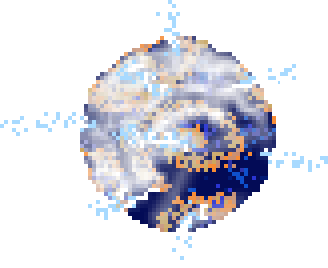
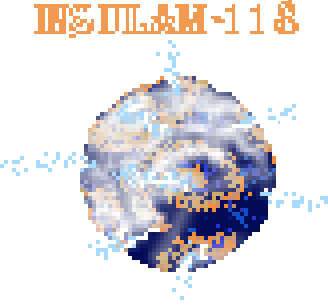
added StarGates, StarMap. Navigation system
added a navigation system for the player to ftl jump to different planets, this system does not yet do anything other then display an animation. But it already prints out the planet you clcked on with the real name for readability

diff --git a/Code-Defender/src/main/java/Controller/StarMap.java b/Code-Defender/src/main/java/Controller/StarMap.java
@@ -1,12 +1,15 @@
 package Controller;
 
+import javafx.animation.PauseTransition;
 import javafx.scene.image.Image;
 import javafx.scene.image.ImageView;
 import javafx.scene.layout.Pane;
 
 import java.util.ArrayList;
+import java.util.HashMap;
 import java.util.List;
-import java.util.Random;
+import Module.MainModule;
+import javafx.util.Duration;
 
 public class StarMap {
     private Pane root;
@@ -14,8 +17,14 @@ public class StarMap {
     private double screenHeight;
     private List<ImageView> planetViews = new ArrayList<>();
     private ImageView backgroundView;
+    private HashMap<ImageView, Integer> planetNumberMap = new HashMap<>();
+    private final double PLANET_SIZE_MULTIPLIER = 50; // Adjust this multiplier as needed
 
-    public StarMap(Pane root, double screenWidth, double screenHeight) {
+
+    private PlayerController playerController;
+
+    public StarMap(Pane root, double screenWidth, double screenHeight, PlayerController playerController) {
+        this.playerController = playerController;
         this.root = root;
         this.screenWidth = screenWidth;
         this.screenHeight = screenHeight;
@@ -24,7 +33,7 @@ public class StarMap {
     }
 
     private void initializeBackground() {
-        Image backgroundImage = new Image(getClass().getResourceAsStream("/graphics/png/shops/shop.png"));
+        Image backgroundImage = new Image(getClass().getResourceAsStream("/graphics/png/planets/backround.png"));
         backgroundView = new ImageView(backgroundImage);
         backgroundView.setFitWidth(screenWidth);
         backgroundView.setFitHeight(screenHeight);
@@ -32,40 +41,87 @@ public class StarMap {
     }
 
     private void initializePlanets() {
-        int planetCount = 10;
-        double middleX = screenWidth / 2;
-        double middleY = screenHeight / 2;
+        // Define the positions and relative sizes for each planet
+        double[][] planetData = {
+                // {x, y, sizeMultiplier}
+                {320, 300, 1}, // planet 1...
+                {380, 470, 2}, //planet 2...
+                {580, 150, 2.2}, //etc...
+                {670, 450, 1.3},
+                {850, 550, 1.3},
+                {810, 240, 1.25},
+                {1000, 180, 1.8},
+                {1100, 520, 2.3},
+                {220, 440, 1.1},
+                {970, 370, 1.1},
+        };
 
-        double middleWidth = 960; // Width of the middle area
-        double middleHeight = 540; // Height of the middle area
-
-        Random random = new Random();
-        for (int i = 1; i <= planetCount; i++) {
-            String planetImagePath = "/graphics/png/planets/planet" + i + ".png";
-            Image planetImage = new Image(getClass().getResourceAsStream(planetImagePath));
-            ImageView planetView = new ImageView(planetImage);
-
-            // Randomly position the planet within the middle area of the screen
-            double planetSize = random.nextDouble() * 50 + 50; // Random size between 30 and 80
-            double minX = middleX - middleWidth / 2 + planetSize / 2;
-            double maxX = middleX + middleWidth / 2 - planetSize / 2;
-            double minY = middleY - middleHeight / 2 + planetSize / 2;
-            double maxY = middleY + middleHeight / 2 - planetSize / 2;
-            double planetX = random.nextDouble() * (maxX - minX) + minX;
-            double planetY = random.nextDouble() * (maxY - minY) + minY;
-
-            planetView.setFitWidth(planetSize);
-            planetView.setFitHeight(planetSize);
-            planetView.setLayoutX(planetX);
-            planetView.setLayoutY(planetY);
-
-            planetViews.add(planetView);
-            root.getChildren().add(planetView);
+        for (int i = 0; i < planetData.length; i++) {
+            double planetX = planetData[i][0];
+            double planetY = planetData[i][1];
+            double sizeMultiplier = planetData[i][2];
+            createPlanet(i + 1, planetX, planetY, sizeMultiplier);
         }
+    }
+
+    private void createPlanet(int planetNumber, double planetX, double planetY, double sizeMultiplier) {
+        String planetImagePath = "/graphics/png/planets/planet" + planetNumber + ".png";
+        Image planetImage = new Image(getClass().getResourceAsStream(planetImagePath));
+        ImageView planetView = new ImageView(planetImage);
+
+        // Set the position of the planet
+        planetView.setLayoutX(planetX);
+        planetView.setLayoutY(planetY);
+
+        // Calculate the size of the planet based on the multiplier
+        double planetSize = PLANET_SIZE_MULTIPLIER * sizeMultiplier;
+
+        // Get the original dimensions of the planet image
+        double originalWidth = planetImage.getWidth();
+        double originalHeight = planetImage.getHeight();
+
+        // Calculate the ratio of the original dimensions
+        double aspectRatio = originalWidth / originalHeight;
+
+        // Calculate the new dimensions while maintaining the aspect ratio
+        double newWidth = Math.sqrt(planetSize * planetSize * aspectRatio);
+        double newHeight = newWidth / aspectRatio;
+
+        // Set the dimensions of the planet view
+        planetView.setFitWidth(newWidth);
+        planetView.setFitHeight(newHeight);
+
+        // Add event handler for clicking the planet
+        planetView.setOnMouseClicked(event -> {
+            System.out.println("Planet " + planetNumber + " clicked!");
+            String playerImagePath = "/graphics/png/player/FTL.gif";
+            playerController.changePlayerImage(playerImagePath);
+
+            PauseTransition pause = new PauseTransition(Duration.seconds(1.4));
+            String originImagePlayer = "/graphics/png/player/SpaceShip.gif";
+            pause.setOnFinished(e -> playerController.changePlayerImage(originImagePlayer));
+
+            playerController.currentPlanet = playerController.evaluateCurrentPlanet(planetNumber);
+
+            pause.play();
+            remove();
+            System.out.println(playerController.currentPlanet);
+        });
+
+        // Add the planet to the root and to the list of planet views
+        planetViews.add(planetView);
+        root.getChildren().add(planetView);
+
+        // Add the planet and its number to the planet number map
+        planetNumberMap.put(planetView, planetNumber);
     }
 
     public void remove() {
         root.getChildren().removeAll(backgroundView);
         root.getChildren().removeAll(planetViews);
+    }
+
+    public HashMap<ImageView, Integer> getPlanetNumberMap() {
+        return planetNumberMap;
     }
 }

diff --git a/Code-Defender/src/main/java/Controller/PlayerController.java b/Code-Defender/src/main/java/Controller/PlayerController.java
@@ -297,10 +297,67 @@ public class PlayerController {
     }
 
     private void openStarMap() {
-        StarMap starMap = new StarMap(root, sceneWidth, sceneHeight);
+        StarMap starMap = new StarMap(root, sceneWidth, sceneHeight, this); // i love that, THIS!
         // You might want to keep a reference to the StarMap object if you need to remove it later
         // e.g., this.starMap = starMap;
     }
+
+    public void changePlayerImage(String imagePath) {
+        Image newPlayerImage = new Image(getClass().getResourceAsStream(imagePath));
+        mainModule.playerView.setImage(newPlayerImage);
+    }
+
+    public String evaluateCurrentPlanet(int PlanetNumber)
+    {
+        String temp = " ";
+
+        switch (PlanetNumber)
+        {
+            case 1:
+                temp = "earth";
+                break;
+
+            case 2:
+                temp = "birmingham";
+            break;
+
+            case 3:
+                temp = "insulam-118";
+                break;
+
+            case 4:
+                temp = "kepler-22b";
+                break;
+
+            case 5:
+                temp = "kepler-89c";
+                break;
+
+            case 6:
+                temp = "mons-25";
+                break;
+
+            case 7:
+                temp = "palus-445";
+                break;
+
+            case 8:
+                temp = "proxima_centauri_b";
+                break;
+
+            case 9:
+                temp = "sargasso";
+                break;
+
+            case 10:
+                temp = "silva-114";
+                break;
+        }
+
+        return temp;
+    }
+
+
 
     public void killAllEnemies() {
         kal = true;

diff --git a/Code-Defender/src/main/java/Module/MainModule.java b/Code-Defender/src/main/java/Module/MainModule.java
@@ -19,6 +19,7 @@ public class MainModule {
 
     public ImageView laserView;
     private Laser laser; // Assuming Laser class exists
+    public String pathToPlayer = "/graphics/png/player/SpaceShip.gif";
 
 
     public int chosenEnemy = 5; // number of the enemy that gets chosen from 1 to ....
@@ -26,7 +27,7 @@ public class MainModule {
     public int chosenLaser = 1; // number of the laser that gets chosen from 1 to ....
 
     public MainModule(double stageWidth, double stageHeight) {
-        playerView = new ImageView(new Image(getClass().getResourceAsStream("/graphics/png/player/SpaceShip.gif")));
+        playerView = new ImageView(new Image(getClass().getResourceAsStream(pathToPlayer)));
         loadEnemyAttributes(chosenEnemy);
         if (enemyImage != null) {
             enemyView = new ImageView(new Image(getClass().getResourceAsStream(enemyImage)));

diff --git a/Code-Defender/src/main/java/View/Screen.java b/Code-Defender/src/main/java/View/Screen.java
@@ -24,7 +24,7 @@ public class Screen extends Application {
         mainStage.setTitle("Code Defender");
 
         // Set background image
-        Image backgroundImage = new Image(getClass().getResourceAsStream("/graphics/png/backrounds/earth.png")); // Corrected path
+        Image backgroundImage = new Image(getClass().getResourceAsStream("/graphics/png/backrounds/earth.png"));
         ImageView backgroundView = new ImageView(backgroundImage);
         root.getChildren().add(backgroundView);
 
